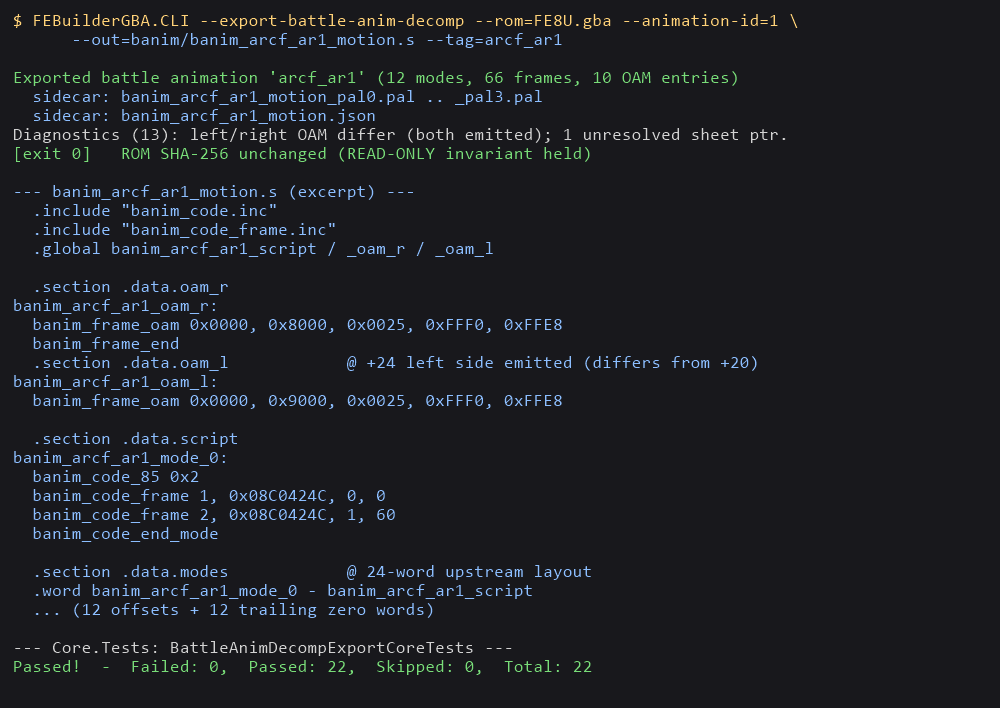
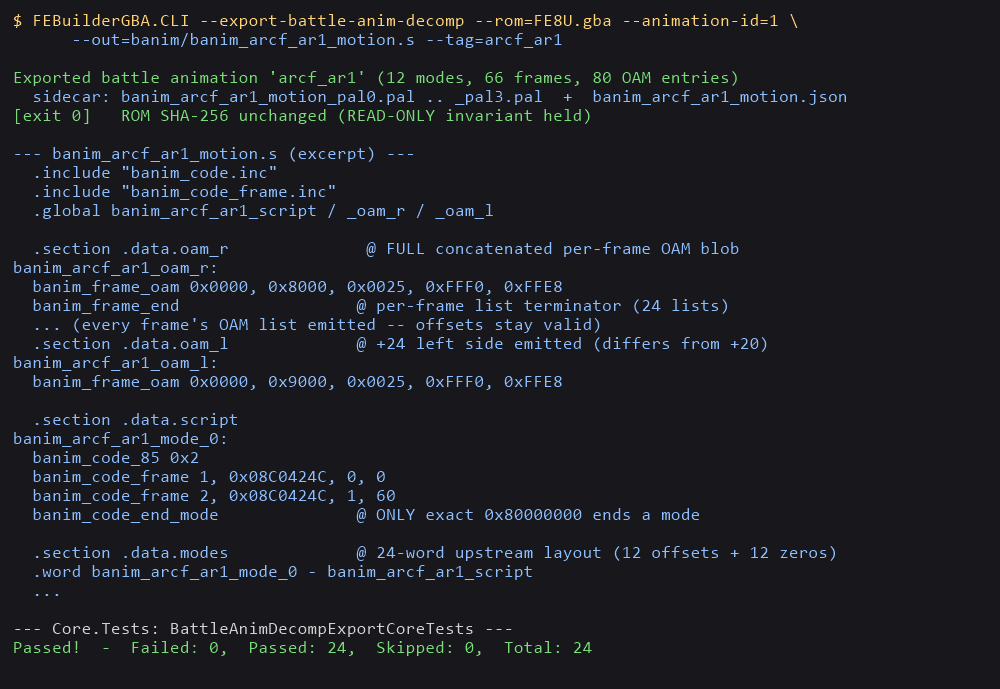
fix(decomp): emit the FULL concatenated OAM blob, not just the first frame list (#1363)
Address Copilot CLI review finding 1 on #1369 (correctness bug):

The OAM data is a CONCATENATION of per-frame OAM lists; each list ends with a
12-byte terminator and frame banim_code_frame oam_offset values index the WHOLE
blob (proven by BattleAnimeImportCore: AppendTermOAM after each frame, OamPos =
oamData.Count before packing). The previous ParseOamEntries stopped at the FIRST
terminator, emitting only the first frame's OAM list (~10 entries on real FE8U)
while later oam_offset values pointed past it — making multi-frame exports
invalid (the 66-frame / 10-OAM-entry mismatch was the tell).

Now ParseOamEntries walks the ENTIRE blob byte-faithfully: every 12-byte entry
becomes a line; the exact 01 00..00 terminator -> banim_frame_end (.word 1,0,0,
matching AppendTermOAM verbatim); FEditor-alt / other terminator-like 12 bytes
-> raw .hword; affine -> raw .hword; emission CONTINUES past terminators. On real
FE8U anim 1 the same record now emits 80 OAM entries (24 per-frame lists) so all
oam_offset values stay valid.

Added 2 unit tests: a mid-blob terminator does NOT truncate later frame lists;
raw-terminator -> raw .hword. 24/24 Core unit tests pass. Screenshot updated to
the accurate 80-OAM-entry output.

Claude Code claude-opus-4-8[1m] / ultracode

diff --git a/FEBuilderGBA.Core/BattleAnimDecompExportCore.cs b/FEBuilderGBA.Core/BattleAnimDecompExportCore.cs
@@ -98,7 +98,7 @@ namespace FEBuilderGBA
             public List<CommandRecord> Commands = new List<CommandRecord>();
         }
 
-        /// <summary>A decoded 12-byte OAM entry (normal sprite or affine matrix).</summary>
+        /// <summary>A decoded 12-byte OAM entry (normal sprite, affine matrix, or terminator).</summary>
         public sealed class OamEntry
         {
             public ushort Attr0;    // hword [0]
@@ -108,7 +108,11 @@ namespace FEBuilderGBA
             public ushort Dy;       // hword [4]
             public ushort Pad;      // hword [5]
             public bool IsAffine;   // bytes [2..3] == 0xFFFF (raw matrix entry)
-            public bool IsTerminator;
+            // A per-frame list terminator. The OAM blob is a CONCATENATION of per-frame
+            // OAM lists (frame oam_offset values index the WHOLE blob), so terminators are
+            // emitted INLINE and parsing continues past them (Copilot review).
+            public bool IsTerminator;      // exact 01 00..00 -> banim_frame_end (.word 1,0,0)
+            public bool IsRawTerminator;   // other terminator-like 12 bytes -> raw .hword
         }
 
         /// <summary>The full decoded animation (script modes + OAM lists + provenance).</summary>
@@ -382,17 +386,43 @@ namespace FEBuilderGBA
         static void ParseOamEntries(byte[] oamData, List<OamEntry> oam, List<string> diagnostics)
         {
             if (oamData == null) return;
+
+            // The OAM blob is a CONCATENATION of per-frame OAM lists; each list ends with
+            // a 12-byte terminator and frame oam_offset values index the WHOLE blob. So we
+            // walk the ENTIRE blob byte-faithfully (every 12-byte entry becomes a line),
+            // emitting terminators INLINE and continuing past them — never stopping at the
+            // first one (which would truncate later frames' offsets; Copilot review).
             bool affineNoted = false;
             for (uint pos = 0; pos + 12 <= (uint)oamData.Length; pos += 12)
             {
                 byte b0 = oamData[pos];
 
-                // FEditor serialized alternate terminator (00 FF FF FF) or normal 0x01.
-                if ((b0 == 0 && oamData[pos + 1] == 0xFF && oamData[pos + 2] == 0xFF && oamData[pos + 3] == 0xFF)
-                    || b0 == 0x01)
+                // Exact 01 00 00 00 00 00 00 00 00 00 00 00 == upstream banim_frame_end
+                // (.word 1, 0, 0). This is BattleAnimeImportCore.AppendTermOAM verbatim.
+                bool isFrameEnd = b0 == 0x01;
+                for (uint k = 1; k < 12 && isFrameEnd; k++)
+                    if (oamData[pos + k] != 0) isFrameEnd = false;
+                if (isFrameEnd)
                 {
                     oam.Add(new OamEntry { IsTerminator = true });
-                    break;
+                    continue;
+                }
+
+                // FEditor serialized alternate terminator (00 FF FF FF ...) or any other
+                // terminator-like 12-byte word -> emit raw .hword (byte-faithful), keep going.
+                if (b0 == 0 && oamData[pos + 1] == 0xFF && oamData[pos + 2] == 0xFF && oamData[pos + 3] == 0xFF)
+                {
+                    oam.Add(new OamEntry
+                    {
+                        IsRawTerminator = true,
+                        Attr0 = (ushort)(oamData[pos + 0] | (oamData[pos + 1] << 8)),
+                        Attr1 = (ushort)(oamData[pos + 2] | (oamData[pos + 3] << 8)),
+                        Attr2 = (ushort)(oamData[pos + 4] | (oamData[pos + 5] << 8)),
+                        Dx = (ushort)(oamData[pos + 6] | (oamData[pos + 7] << 8)),
+                        Dy = (ushort)(oamData[pos + 8] | (oamData[pos + 9] << 8)),
+                        Pad = (ushort)(oamData[pos + 10] | (oamData[pos + 11] << 8)),
+                    });
+                    continue;
                 }
 
                 bool isAffine = oamData[pos + 2] == 0xFF && oamData[pos + 3] == 0xFF;
@@ -413,9 +443,9 @@ namespace FEBuilderGBA
                     affineNoted = true;
                 }
 
-                if (oam.Count > 4096)
+                if (oam.Count > 65536)
                 {
-                    diagnostics.Add(R._("The OAM list exceeded 4096 entries without a terminator; truncated (manual review)."));
+                    diagnostics.Add(R._("The OAM blob exceeded 65536 entries; truncated (manual review)."));
                     break;
                 }
             }
@@ -599,7 +629,17 @@ namespace FEBuilderGBA
             {
                 if (e.IsTerminator)
                 {
+                    // exact 01 00..00 -> banim_frame_end (.word 1, 0, 0); the per-frame
+                    // list ends here but more lists may follow in the same blob.
                     sb.Append("\tbanim_frame_end\n");
+                    continue;
+                }
+                if (e.IsRawTerminator)
+                {
+                    // FEditor-alt / other terminator-like 12 bytes -> raw .hword (byte-faithful).
+                    sb.Append("\t.hword 0x" + e.Attr0.ToString("X4") + ", 0x" + e.Attr1.ToString("X4")
+                        + ", 0x" + e.Attr2.ToString("X4") + ", 0x" + e.Dx.ToString("X4")
+                        + ", 0x" + e.Dy.ToString("X4") + ", 0x" + e.Pad.ToString("X4") + " @ frame-list terminator\n");
                     continue;
                 }
                 if (e.IsAffine)

diff --git a/FEBuilderGBA.Core.Tests/BattleAnimDecompExportCoreTests.cs b/FEBuilderGBA.Core.Tests/BattleAnimDecompExportCoreTests.cs
@@ -218,6 +218,44 @@ namespace FEBuilderGBA.Core.Tests
         }
 
         [Fact]
+        public void Format_MultiFrameOamBlob_EmitsAllEntries_TerminatorsInline_NotTruncated()
+        {
+            // The OAM blob is a CONCATENATION of per-frame lists: entries, a terminator,
+            // MORE entries, another terminator. The formatter must emit ALL of them (a
+            // mid-blob terminator must NOT stop emission), so frame oam_offset values
+            // that index later lists stay valid (Copilot review — the +20/+24 truncation).
+            var anime = MakeAnime();
+            anime.Modes.Add(ModeWith(0, EndMode()));
+            anime.OamRight.Add(Oam(0x0000, 0x8000, 0x0025, 0xFFF0, 0xFFE8)); // frame-0 list
+            anime.OamRight.Add(new BattleAnimDecompExportCore.OamEntry { IsTerminator = true });
+            anime.OamRight.Add(Oam(0x0000, 0x4000, 0x0029, 0x0010, 0xFFE8)); // frame-1 list (AFTER the 1st terminator)
+            anime.OamRight.Add(new BattleAnimDecompExportCore.OamEntry { IsTerminator = true });
+
+            string s = BattleAnimDecompExportCore.FormatBanimSource(anime, out _);
+
+            // Both per-frame sprite entries are present (the 2nd is NOT truncated).
+            Assert.Contains("banim_frame_oam 0x0000, 0x8000, 0x0025, 0xFFF0, 0xFFE8", s);
+            Assert.Contains("banim_frame_oam 0x0000, 0x4000, 0x0029, 0x0010, 0xFFE8", s);
+            // Two inline terminators.
+            Assert.Equal(2, CountOccurrences(s, "banim_frame_end"));
+        }
+
+        [Fact]
+        public void Format_RawTerminatorOam_EmitsRawHword()
+        {
+            var anime = MakeAnime();
+            anime.Modes.Add(ModeWith(0, EndMode()));
+            // FEditor-alt terminator: 00 FF FF FF ... -> raw .hword (byte-faithful).
+            anime.OamRight.Add(new BattleAnimDecompExportCore.OamEntry
+            { IsRawTerminator = true, Attr0 = 0xFF00, Attr1 = 0xFFFF, Attr2 = 0, Dx = 0, Dy = 0, Pad = 0 });
+
+            string s = BattleAnimDecompExportCore.FormatBanimSource(anime, out _);
+
+            Assert.Contains("@ frame-list terminator", s);
+            Assert.DoesNotContain("banim_frame_oam 0xFF00, 0xFFFF", s);
+        }
+
+        [Fact]
         public void Format_SharedOamSides_AliasesLeftToRight()
         {
             var anime = MakeAnime();